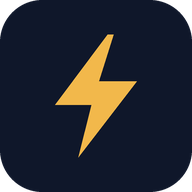
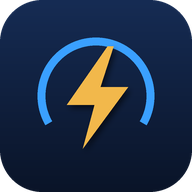
Tablet: tam ekran yatay PWA, iki sütunlu yatay düzen, yeni ikon, ana ekrana ekle ve tam ekran düğmeleri

diff --git a/index.html b/index.html
@@ -105,6 +105,25 @@
   .cmp .col div{display:flex;justify-content:space-between;gap:8px;padding:2px 0;}
   .cmp .col b{font-weight:700;}
   @media (max-width:600px){ .bars .row{grid-template-columns:105px 1fr 92px;} }
+  /* ---- Tablet yatay: tam ekran, iki sütun ---- */
+  @media (min-width:960px) and (orientation:landscape){
+    header{display:flex;align-items:center;gap:16px;padding:calc(8px + env(safe-area-inset-top)) max(20px, env(safe-area-inset-right)) 0 max(20px, env(safe-area-inset-left));text-align:left;}
+    header h1{font-size:1.25rem;white-space:nowrap;}
+    header p{display:none;}
+    .userbar{margin:0 0 0 auto;}
+    .wrap{max-width:none;padding:0 max(20px, env(safe-area-inset-right)) calc(24px + env(safe-area-inset-bottom)) max(20px, env(safe-area-inset-left));}
+    nav.tabs{justify-content:flex-start;margin:6px 0 12px;padding:6px 0;}
+    #p-ozet.on,#p-fatura.on,#p-fiyat.on{display:grid;grid-template-columns:repeat(2,minmax(0,1fr));gap:14px;align-items:start;grid-auto-flow:row dense;}
+    #p-ozet .card,#p-fatura .card,#p-fiyat .card{margin:0;}
+    .card.wide{grid-column:1 / -1;}
+    .table-scroll{max-height:none;}
+    #p-fatura .table-scroll{max-height:60vh;}
+    #limit-tiles{grid-template-columns:repeat(2,minmax(0,1fr));}
+    #fiyat-tiles,#kis-tiles{grid-template-columns:repeat(6,minmax(0,1fr));}
+    #fiyat-tiles>.tile:nth-child(-n+3),#kis-tiles>.tile:nth-child(-n+3){grid-column:span 2;}
+    #fiyat-tiles>.tile:nth-child(n+4),#kis-tiles>.tile:nth-child(n+4){grid-column:span 3;}
+  }
+  .hdr-btn{background:var(--panel2);border:1px solid var(--border);color:var(--text);border-radius:8px;padding:5px 10px;font-size:.78rem;cursor:pointer;}
 </style>
 </head>
 <body>
@@ -119,7 +138,7 @@
 <header>
   <h1>⚡ Elektrik Takip</h1>
   <p>Cihaz planından fatura tahmini · gerçek faturayla karşılaştırma · yıllık 4.000 kWh takibi</p>
-  <div class="userbar" id="userbar" style="display:none"><span id="user-email"></span> · <button class="icon-btn" id="signout-btn">Çıkış yap</button></div>
+  <div class="userbar" id="userbar" style="display:none"><button class="hdr-btn" id="install-btn" hidden>📲 Ana ekrana ekle</button><button class="hdr-btn" id="fs-btn">⛶ Tam ekran</button><span id="user-email"></span> · <button class="icon-btn" id="signout-btn">Çıkış yap</button></div>
 </header>
 
 <div class="wrap">
@@ -168,20 +187,20 @@
       </details>
     </div>
 
-    <div class="card">
+    <div class="card wide">
       <h2>Aylık tüketim (takvim ayı)</h2>
       <div class="legend"><span><i style="background:var(--s-actual)"></i>Gerçekleşen (sayaç/fatura)</span><span><i style="background:var(--s-plan)"></i>Cihaz planına göre tahmin</span></div>
       <div id="chart-wrap"><svg id="chart" width="100%" height="240" role="img" aria-label="Aylık tüketim grafiği"></svg><div id="chart-tip"></div></div>
       <details open><summary>Aylık tablo (kümülatif toplamla)</summary><div class="table-scroll" id="ay-tablo"></div></details>
     </div>
 
-    <div class="card">
+    <div class="card wide">
       <h2>Gelecek fatura dönemleri <span class="badge">her yeni veriyle yeniden hesaplanır</span></h2>
       <p class="hint">Bilinen günler için gerçek sayaç verisi, bilinmeyen günler için cihaz planı kullanılır. Enerji fiyatı = max(düşük tarife, (PTF + YEKDEM) × K × kalibrasyon). Vergiler: ETV %5 (enerji bedeli üzerinden) + KDV %10.</p>
       <div class="table-scroll" id="donem-tablo"></div>
     </div>
 
-    <div class="card">
+    <div class="card wide">
       <details><summary>ℹ Notlar ve kaynaklar</summary>
         <ul class="hint" style="padding-left:18px;margin:0;display:grid;gap:6px">
           <li><b>Tüketim:</b> takvim ayları ADM Elektrik Dağıtım verisinden; fatura dönemleri Aydem e-Arşiv faturalarından.</li>
@@ -248,7 +267,7 @@
       <div class="cmp" id="son-fatura-cmp"></div>
     </div>
 
-    <div class="card">
+    <div class="card wide">
       <h2>Fatura geçmişi</h2>
       <p class="hint"><b>Brüt kWh</b> = ödenecek tutar ÷ kWh (enerji + dağıtım + vergiler dahil gerçek maliyet). <b>Hesap</b> = uygulamanın faturadaki birim fiyatlarla hesapladığı tutar (doğrulama). <b>Tahmin</b> = o dönem için uygulamanın önceden yaptığı ilk/son tahmin.</p>
       <div class="table-scroll" id="fatura-tablo"></div>
@@ -272,7 +291,7 @@
       <div class="btn-row"><button class="btn secondary" id="s-save">Ayarları kaydet</button><span class="hint" id="kal-info" style="margin:0"></span></div>
     </div>
 
-    <div class="card">
+    <div class="card wide">
       <h2>Aylık PTF ve YEKDEM <span class="badge" id="ptf-badge"></span></h2>
       <p class="hint">PTF (piyasa takas fiyatı) her gün EPİAŞ bülteninden otomatik güncellenir. YEKDEM'i EPDK yayınlar; yeni değer açıklanınca ilgili ayın kutusuna yazıp kaydedin. İtalik değerler tahmindir (geçen yılın aynı ayı × son 3 ayın yıllık değişimi).</p>
       <div class="table-scroll" id="ptf-tablo"></div>
@@ -625,7 +644,7 @@ function renderKlima(ilk){
   const brut = ilk ? ilk.brutNet : brutBirim(enerjiFiyatTahmin(todayN(),todayN()+30));
   const list = Object.entries(cihazlar).filter(([k,c])=>/klima/i.test(c.ad||'')).sort((a,b)=>(a[1].sira??0)-(b[1].sira??0));
   const mi = new Date().getMonth();
-  $('klima-tablo').innerHTML = list.length ? `<table><thead><tr><th>Klima</th><th>Güç (W)</th><th>Kaynak</th><th>Günde 1 saat → ay (kWh)</th><th>Günde 1 saat → ay (TL)</th><th>${AYLAR_UZUN[mi]} planı (saat/gün)</th><th>${AYLAR_UZUN[mi]} planı (TL/ay)</th></tr></thead><tbody>${
+  $('klima-tablo').innerHTML = list.length ? `<table><thead><tr><th>Klima</th><th>Güç (W)</th><th>Kaynak</th><th title="Günde 1 saat çalışırsa aylık">1 sa/gün → kWh/ay</th><th title="Günde 1 saat çalışırsa aylık">→ TL/ay</th><th>${AYLAR[mi]} planı sa/gün</th><th>${AYLAR[mi]} TL/ay</th></tr></thead><tbody>${
     list.map(([k,c])=>{ const kwhAy=(+c.guc||0)/1000*30*(c.adet??1); const plan=(c.aylik&&c.aylik[mi])||0;
       return `<tr><td>${esc(c.ad)}</td><td>${fmt0(+c.guc||0)}</td><td>${c.kaynak==='olculen'?'ölçülen':'<span class="diff-mid">tahmin</span>'}</td><td>${fmt(kwhAy,1)}</td><td><b>${fmt0(kwhAy*brut)}</b></td><td>${c.mod==='kwh'?'—':fmt(plan,1)}</td><td>${fmt0(cihazGunluk(c,mi)*30*brut)}</td></tr>`; }).join('')
     }</tbody></table><p class="hint" style="margin-top:8px">TL hesabı sıradaki faturanın brüt kWh maliyetiyle (${fmt(brut,2)} TL) yapılır.</p>` : '<p class="hint">Adında “Klima” geçen cihaz yok.</p>';
@@ -913,7 +932,7 @@ function initData(){
 
 /* ======================= Auth (Su Faturası ile aynı) ======================= */
 function setAuthStatus(msg,isErr){ const el=$('auth-status-line'); el.textContent=msg||''; el.style.color=isErr?'var(--danger)':'var(--muted)'; }
-function isStandalone(){ return window.matchMedia('(display-mode: standalone)').matches || window.navigator.standalone===true; }
+function isStandalone(){ return window.matchMedia('(display-mode: standalone)').matches || window.matchMedia('(display-mode: fullscreen)').matches || window.navigator.standalone===true; }
 $('google-signin-btn').addEventListener('click',()=>{
   auth.setPersistence(firebase.auth.Auth.Persistence.LOCAL).then(()=>{
     if (isStandalone()){ setAuthStatus('Google giriş sayfasına yönlendiriliyor…'); return auth.signInWithRedirect(provider); }
@@ -932,6 +951,15 @@ auth.onAuthStateChanged(user=>{
   else { $('auth-overlay').style.display='flex'; $('userbar').style.display='none'; }
 });
 window.addEventListener('pageshow',e=>{ if(e.persisted) location.reload(); });
+/* Ana ekrana ekleme ve tam ekran */
+let _installEvt=null;
+window.addEventListener('beforeinstallprompt',e=>{ e.preventDefault(); _installEvt=e; $('install-btn').hidden=false; });
+window.addEventListener('appinstalled',()=>{ $('install-btn').hidden=true; toast('Uygulama ana ekrana eklendi.'); });
+$('install-btn').addEventListener('click',async()=>{ if(!_installEvt) return; _installEvt.prompt(); await _installEvt.userChoice.catch(()=>{}); _installEvt=null; $('install-btn').hidden=true; });
+function fsGuncelle(){ const inApp=window.matchMedia('(display-mode: fullscreen)').matches||window.matchMedia('(display-mode: standalone)').matches; $('fs-btn').hidden = inApp || !document.documentElement.requestFullscreen; $('fs-btn').textContent = document.fullscreenElement? '⤢ Tam ekrandan çık' : '⛶ Tam ekran'; }
+$('fs-btn').addEventListener('click',()=>{ if(document.fullscreenElement) document.exitFullscreen(); else document.documentElement.requestFullscreen().catch(()=>{}); });
+document.addEventListener('fullscreenchange',()=>{ fsGuncelle(); renderOzet(); });
+fsGuncelle();
 if ('serviceWorker' in navigator) window.addEventListener('load',()=>navigator.serviceWorker.register('sw.js').catch(()=>{}));
 </script>
 </body>

diff --git a/sw.js b/sw.js
@@ -1,4 +1,4 @@
-const CACHE_NAME = 'elektrik-takip-v2';
+const CACHE_NAME = 'elektrik-takip-v3';
 const SHELL = ['./', './index.html', './manifest.json'];
 
 self.addEventListener('install', (e) => {
